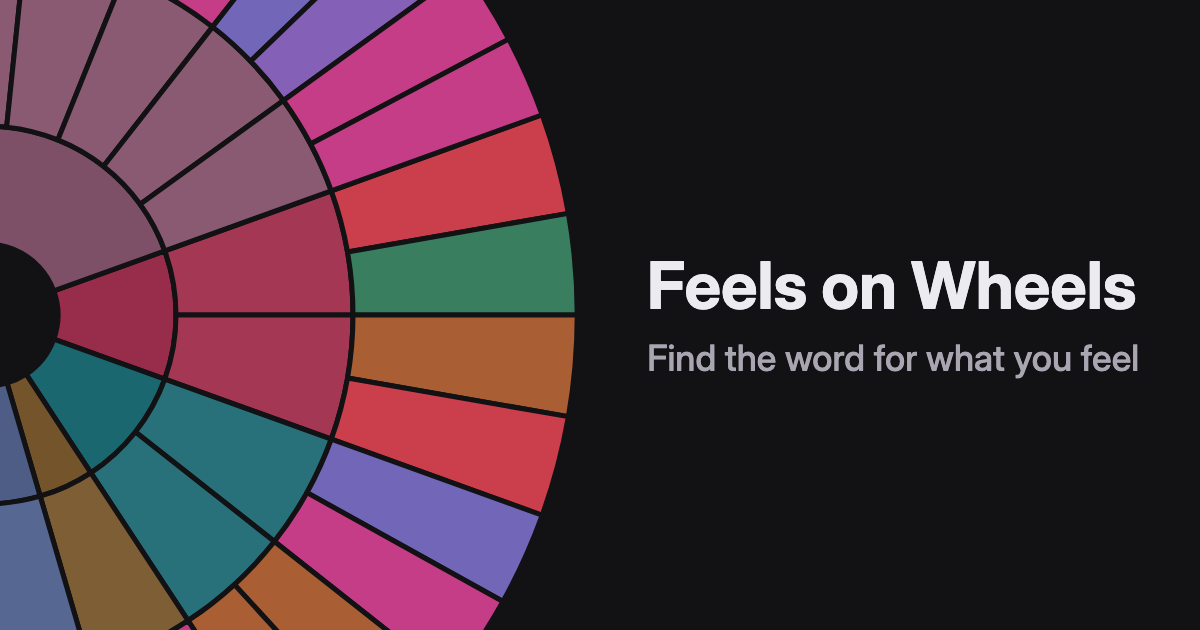
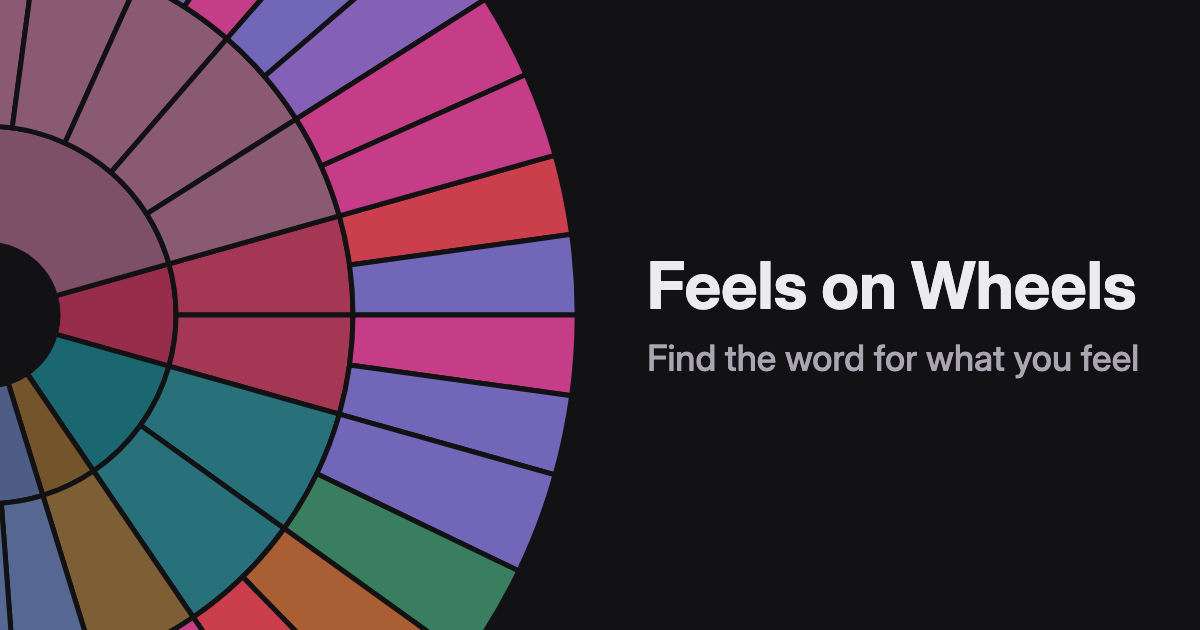
Body wheel review: Gagging goes, Clenched teeth, Nothing much, Revolted under Back away, Helpless under Give up

diff --git a/tests/unit/data.test.ts b/tests/unit/data.test.ts
@@ -120,27 +120,27 @@ describe('validation', () => {
 });
 
 const AREAS: [string, string[]][] = [
-  ['head', ['headache', 'foggy-head', 'lightheaded', 'hot-face', 'tight-jaw']],
-  ['throat', ['lump-in-throat', 'heart-in-throat', 'tight-throat', 'dry-mouth', 'gagging']],
+  ['head', ['headache', 'foggy-head', 'lightheaded', 'hot-face']],
+  ['throat', ['lump-in-throat', 'heart-in-throat', 'tight-throat', 'dry-mouth', 'clenched-teeth']],
   ['shoulders', ['tense-shoulders', 'weight-on-shoulders']],
   ['hands', ['tight-fists', 'shaky-hands', 'sweaty-palms', 'cold-hands']],
   ['chest', ['racing-heart', 'tight-chest', 'short-breath', 'hollow-chest', 'heavy-heart']],
   ['stomach', ['knot-in-stomach', 'sinking-feeling', 'butterflies', 'queasy']],
-  ['whole-body', ['restless', 'buzzing', 'chills', 'frozen', 'skin-crawling', 'heaviness', 'drained', 'numb-empty', 'flat', 'weak-knees']],
+  ['whole-body', ['restless', 'buzzing', 'chills', 'frozen', 'skin-crawling', 'heaviness', 'drained', 'numb-empty', 'nothing-much', 'weak-knees']],
   ['urges', ['run', 'hide', 'lash-out', 'back-away', 'fix-things', 'be-close', 'be-alone', 'give-up', 'numb-out', 'sleep', 'cry', 'control-things']],
 ];
 
 describe('body wheel data', () => {
-  test('body wheel has 8 areas and 47 sensations, in spec §3 order (less the changes file)', () => {
+  test('body wheel has 8 areas and 46 sensations, in spec §3 order (less the changes file)', () => {
     expect(body.children.map((n) => nodeRef(n))).toEqual(AREAS.map(([id]) => ({ kind: 'area', id })));
     body.children.forEach((a, i) => {
       expect((a.children ?? []).map((n) => nodeRef(n)), AREAS[i]![0]).toEqual(AREAS[i]![1].map((id) => ({ kind: 'sensation', id })));
     });
-    expect(body.children.flatMap((a) => a.children ?? []).length).toBe(47);
+    expect(body.children.flatMap((a) => a.children ?? []).length).toBe(46);
   });
 
-  test('body wheel has 127 feeling cells', () => {
-    expect(body.children.flatMap((a) => a.children ?? []).reduce((n, s) => n + (s.children ?? []).length, 0)).toBe(127);
+  test('body wheel has 126 feeling cells', () => {
+    expect(body.children.flatMap((a) => a.children ?? []).reduce((n, s) => n + (s.children ?? []).length, 0)).toBe(126);
   });
 
   test('area labels', () => {

diff --git a/tests/unit/card.test.ts b/tests/unit/card.test.ts
@@ -716,7 +716,7 @@ describe('the core feeling on the body wheel (spec v2.2 §4.4)', () => {
   };
 
   test('a body wheel feeling names its core feeling after the definition', () => {
-    expect(textSection(cardModel(body, feelings, bOpened('whole-body/flat/content'), jump))).toEqual({
+    expect(textSection(cardModel(body, feelings, bOpened('whole-body/nothing-much/content'), jump))).toEqual({
       kind: 'text', text: locale.feelings['content']!.definition,
       core: { before: 'A ', label: 'happy', after: ' feeling.', hue: 'happy', wheel: 'core', path: 'happy' },
     });
@@ -730,7 +730,7 @@ describe('the core feeling on the body wheel (spec v2.2 §4.4)', () => {
   // No core feeling is on the body wheel any more (rework spec §3), so there's no body wheel case for one.
   test('no core sentence on a feeling with no home, or the feelings wheel', () => {
     const homeless = { wheel: 'core', home: new Map() };
-    expect(textSection(cardModel(body, feelings, bOpened('whole-body/flat/content'), homeless)).core).toBeUndefined();
+    expect(textSection(cardModel(body, feelings, bOpened('whole-body/nothing-much/content'), homeless)).core).toBeUndefined();
     expect(textSection(cardModel(layout, feelings, opened('happy/interested'))).core).toBeUndefined();
   });
 
@@ -741,7 +741,7 @@ describe('the core feeling on the body wheel (spec v2.2 §4.4)', () => {
     el.hrefFor = (w, p) => `/${w}/${p}`;
     const got: unknown[] = [];
     document.body.addEventListener('fw-wheel', (e) => got.push((e as CustomEvent).detail));
-    el.model = cardModel(body, feelings, bOpened('whole-body/flat/content'), jump);
+    el.model = cardModel(body, feelings, bOpened('whole-body/nothing-much/content'), jump);
     const p = el.querySelector('.fw-definition')!;
     expect(p.textContent).toBe(`${locale.feelings['content']!.definition} A happy feeling.`);
     const link = p.querySelector<HTMLAnchorElement>('a.fw-link')!;

diff --git a/tests/e2e/body.spec.ts b/tests/e2e/body.spec.ts
@@ -406,7 +406,7 @@ test.describe('v2.2: the core feeling in the definition', () => {
   const coreLink = (page: Page) => page.locator('fw-card .fw-definition .fw-link');
 
   test('the core feeling link opens Happy on the feelings wheel; Enter works too', async ({ page }) => {
-    await open(page, '/body/whole-body/flat/content');
+    await open(page, '/body/whole-body/nothing-much/content');
     await expect(page.locator('fw-card .fw-definition')).toContainText('A happy feeling.');
     await coreLink(page).click();
     await idle(page);
@@ -426,7 +426,7 @@ test.describe('v2.2: the core feeling in the definition', () => {
   });
 
   test('axe: a body wheel definition with its core feeling link', async ({ page }) => {
-    await open(page, '/body/whole-body/flat/content');
+    await open(page, '/body/whole-body/nothing-much/content');
     await settled(page);
     expect((await new AxeBuilder({ page }).analyze()).violations).toEqual([]);
   });

diff --git a/tests/unit/content.test.ts b/tests/unit/content.test.ts
@@ -58,9 +58,10 @@ describe('body wheel content', () => {
     expect(feelingsUnder('cry')).toEqual(['frustrated', 'overwhelmed', 'thankful']);
   });
 
-  test('flat could be content, peaceful, or numb', () => {
-    expect(feelingsUnder('flat')).toEqual(['content', 'peaceful', 'numb']);
-    expect(locale.sensations['flat']).toBe('Flat');
+  test('nothing much could be content, peaceful, or apathetic', () => {
+    expect(feelingsUnder('nothing-much')).toEqual(['content', 'peaceful', 'apathetic']);
+    expect(locale.sensations['nothing-much']).toBe('Nothing much');
+    expect(locale.sensationPhrases['nothing-much']).toBe('Not feeling much');
   });
 
   test('the happy-only sensations stay for You might notice, off the body wheel', () => {

diff --git a/tests/unit/camera.test.ts b/tests/unit/camera.test.ts
@@ -25,7 +25,7 @@ describe('v2.2.1: the left safe-area inset', () => {
   const wheels = loadData().wheels.map((w, i) => (i === 0 ? layout : buildLayout(w)));
 
   /**
-   * Known issue (roadmap: "The two wheels can rest, and zoom, differently"): with the body wheel rework's 127 outer
+   * Known issue (roadmap: "The two wheels can rest, and zoom, differently"): with the body wheel rework's 126 outer
    * cells, the body wheel's outer ring zooms in too far to clear the notch and stay left of the card. When that's
    * fixed, this expectation fails; remove the entry.
    */

diff --git a/tests/unit/a11y.test.ts b/tests/unit/a11y.test.ts
@@ -261,9 +261,9 @@ describe('body wheel (v2)', () => {
     expect(describeSeg(bodyLayout, bodyLayout.byPath.get('urges/run/scared')!)).toBe('Scared. In Urges, Run.');
   });
 
-  test('the body tree has 182 treeitems', () => {
+  test('the body tree has 180 treeitems', () => {
     createA11yTree(root, bodyLayout, dispatch, startWord);
-    expect(items()).toHaveLength(182);
+    expect(items()).toHaveLength(180);
   });
 
   test('the tree is named after its wheel', () => {

diff --git a/docs/content-review.md b/docs/content-review.md
@@ -35,7 +35,7 @@ One entry per word. A word in two places on the wheel is listed once, where it f
     - **Excluded**: Feeling left out, as if you are on the outside of a group.  
       _A hollow feeling in your chest · A lump in your throat · Wanting to be close_
     - **Persecuted**: Feeling that you are being targeted or treated badly on purpose.  
-      _A racing heart · Tense shoulders · A tight jaw · Wanting to run_
+      _A racing heart · Tense shoulders · Clenched teeth · Wanting to run_
   - **Threatened**: Sensing that someone or something might harm you or what you care about.  
     _Wanting to run · A racing heart · Tense shoulders · Your heart in your throat_
     - **Nervous**: Jittery and on edge about something coming up.  
@@ -46,27 +46,27 @@ One entry per word. A word in two places on the wheel is listed once, where it f
 ## Angry
 
 - **Angry**: A strong feeling that something is wrong or unfair, with an urge to push back.  
-  _A hot face · A tight jaw · Tight fists · A racing heart_
+  _A hot face · Clenched teeth · Tight fists · A racing heart_
   - **Let Down**: Disappointed because someone didn't do what you hoped or expected.  
     _A sinking feeling · A heavy heart · A hollow feeling in your chest_
     - **Betrayed**: Hurt and angry because someone you trusted broke that trust.  
       _A knot in your stomach · Wanting to lash out · A hollow feeling in your chest · A lump in your throat_
     - **Resentful**: Holding on to anger about being treated unfairly in the past.  
-      _A tight jaw · A tight chest · Wanting to lash out · Tense shoulders_
+      _Clenched teeth · A tight chest · Wanting to lash out · Tense shoulders_
   - **Humiliated**: Deeply embarrassed and made to feel small, often in front of others.  
     _A hot face · Wanting to hide · A sinking feeling_
     - **Disrespected**: Feeling that someone treated you as if you didn't matter.  
-      _A hot face · A tight jaw · A tight chest_
+      _A hot face · Clenched teeth · A tight chest_
     - **Ridiculed**: Feeling mocked or laughed at.  
       _A hot face · Wanting to hide_
   - **Bitter**: Lasting anger and hurt about something that felt unfair.  
-    _Wanting to lash out · A tight jaw · A tight chest · A knot in your stomach_
+    _Wanting to lash out · Clenched teeth · A tight chest · A knot in your stomach_
     - **Indignant**: Angry about something you see as unjust or insulting.  
-      _A hot face · Tense shoulders · A tight jaw_
+      _A hot face · Tense shoulders · Clenched teeth_
     - **Violated**: Feeling that a boundary was crossed or something of yours was taken without permission.  
       _Your skin crawling · A knot in your stomach · Feeling queasy · Feeling frozen_
   - **Mad**: Plainly angry and fired up.  
-    _A tight jaw · Tight fists · A racing heart · A hot face_
+    _Clenched teeth · Tight fists · A racing heart · A hot face_
     - **Furious**: Extremely angry, close to losing control.  
       _Shaky hands · Wanting to lash out · A hot face · Tight fists_
     - **Jealous**: Afraid of losing someone or something to another person, or wanting what they have.  
@@ -74,36 +74,36 @@ One entry per word. A word in two places on the wheel is listed once, where it f
   - **Aggressive**: Ready to attack or confront, in words or actions.  
     _Tight fists · Tense shoulders · Wanting to lash out_
     - **Provoked**: Stirred up to anger by something someone said or did.  
-      _Wanting to lash out · A hot face · A tight jaw · A racing heart_
+      _Wanting to lash out · A hot face · Clenched teeth · A racing heart_
     - **Hostile**: Unfriendly and ready to fight or oppose.  
-      _Wanting to lash out · A tight jaw · Tense shoulders · Tight fists_
+      _Wanting to lash out · Clenched teeth · Tense shoulders · Tight fists_
   - **Frustrated**: Upset because something keeps getting in your way.  
     _A headache · Tense shoulders · Tight fists · Wanting to cry_
     - **Infuriated**: Made extremely angry, usually by something that keeps happening.  
       _A hot face · Tight fists · A racing heart_
     - **Annoyed**: Mildly irritated by something that bothers you.  
-      _Tense shoulders · Feeling restless · A tight jaw_
+      _Tense shoulders · Feeling restless · Clenched teeth_
   - **Distant**: Pulled back from others, keeping feelings at arm's length.  
     _Feeling numb or empty · Feeling drained · Wanting to be alone_
     - **Withdrawn**: Pulling into yourself and avoiding contact with others.  
       _Wanting to be alone · Wanting to hide · Feeling drained_
     - **Numb**: Feeling very little, as if your emotions have been switched off.  
-      _Feeling flat · Feeling numb or empty · Heaviness · A foggy head_
+      _Not feeling much · Feeling numb or empty · Heaviness · A foggy head_
   - **Critical**: Quick to notice faults and judge them.  
-    _A tight jaw · Tense shoulders_
+    _Clenched teeth · Tense shoulders_
     - **Skeptical**: Doubting whether something is true or can be trusted.  
       _Tense shoulders · Wanting to back away_
     - **Dismissive**: Brushing something off as not worth your attention.  
-      _Wanting to back away · Feeling flat_
+      _Wanting to back away · Not feeling much_
 
 ## Disgusted
 
 - **Disgusted**: Strong dislike of something that feels gross, wrong, or offensive.  
-  _Feeling queasy · Gagging · Wanting to back away_
+  _Feeling queasy · Wanting to back away_
   - **Disapproving**: Feeling that something is wrong or not okay.  
-    _A tight jaw · Wanting to back away · Tense shoulders_
+    _Clenched teeth · Wanting to back away · Tense shoulders_
     - **Judgmental**: Forming harsh opinions about someone or something.  
-      _A tight jaw · Tense shoulders · Wanting to back away_
+      _Clenched teeth · Tense shoulders · Wanting to back away_
     - **Embarrassed**: Self-conscious and uncomfortable after something awkward or revealing.  
       _A hot face · Wanting to hide_
   - **Disappointed**: Sad that something didn't turn out the way you hoped.  
@@ -111,15 +111,15 @@ One entry per word. A word in two places on the wheel is listed once, where it f
     - **Appalled**: Shocked and disgusted by something you think is very wrong.  
       _Feeling queasy · Wanting to back away · Feeling frozen_
     - **Revolted**: Strongly repelled, with an urge to get away.  
-      _Gagging · Feeling queasy · Wanting to back away_
+      _Feeling queasy · Wanting to back away_
   - **Awful**: Feeling very bad, sick, or unpleasant inside.  
     _Feeling queasy · A knot in your stomach · Heaviness_
     - **Nauseated**: Sick to your stomach, as if you might throw up.  
-      _Feeling queasy · Gagging · Cold hands_
+      _Feeling queasy · Cold hands_
     - **Detestable**: Feeling that something, or you yourself, is hateful or deeply unpleasant.  
       _Feeling queasy · Wanting to back away · A knot in your stomach_
   - **Repelled**: Pushed away by something you find unpleasant.  
-    _Feeling queasy · Your skin crawling · Gagging · Wanting to back away_
+    _Feeling queasy · Your skin crawling · Wanting to back away_
     - **Horrified**: Filled with shock and fear at something terrible.  
       _Your skin crawling · Wanting to back away · Your heart in your throat · Feeling frozen_
     - **Hesitant**: Holding back because you are unsure or uneasy.  
@@ -180,7 +180,7 @@ One entry per word. A word in two places on the wheel is listed once, where it f
     - **Sensitive**: Easily moved, and keenly aware of your own feelings and other people's.  
       _Warmth or fullness in your chest · Wanting to cry · A hot face_
   - **Peaceful**: Calm and settled, without inner conflict.  
-    _Feeling flat · Feeling relaxed · Feeling light_
+    _Not feeling much · Feeling relaxed · Feeling light_
     - **Thankful**: Glad and appreciative for something you received.  
       _Warmth or fullness in your chest · Wanting to cry · Feeling relaxed_
     - **Loving**: Feeling deep care and affection for someone.  
@@ -210,7 +210,7 @@ One entry per word. A word in two places on the wheel is listed once, where it f
     - **Curious**: Drawn to explore something new or unknown.  
       _A buzzing feeling · Feeling restless_
   - **Content**: Satisfied with how things are right now.  
-    _Feeling flat · Feeling relaxed · Feeling light_
+    _Not feeling much · Feeling relaxed · Feeling light_
     - **Joyful**: Full of great happiness and delight.  
       _Feeling light · A buzzing feeling · Warmth or fullness in your chest_
     - **Free**: Unburdened and able to be yourself.  
@@ -262,7 +262,7 @@ One entry per word. A word in two places on the wheel is listed once, where it f
     - **Sleepy**: Ready for sleep, with heavy eyes and a slow body.  
       _Feeling drained · Heaviness · Wanting to sleep_
   - **Stressed**: Under pressure and stretched thin.  
-    _A headache · A tight jaw · Tense shoulders · Short, shallow breaths_
+    _A headache · Clenched teeth · Tense shoulders · Short, shallow breaths_
     - **Out of Control**: Feeling that things are happening faster than you can manage.  
       _Wanting to control things · A racing heart · Short, shallow breaths · Feeling restless_
     - **Overwhelmed**: see above
@@ -275,9 +275,9 @@ One entry per word. A word in two places on the wheel is listed once, where it f
   - **Bored**: Uninterested and wanting something to happen.  
     _Feeling restless · Feeling drained · Wanting to sleep_
     - **Apathetic**: Not caring or feeling much about anything.  
-      _Feeling drained · Feeling numb or empty · Feeling flat_
+      _Feeling drained · Feeling numb or empty · Not feeling much_
     - **Indifferent**: Neither for nor against something, without strong feelings either way.  
-      _Feeling numb or empty · Feeling flat · Feeling drained_
+      _Feeling numb or empty · Not feeling much · Feeling drained_
 
 
 ## Body wheel
@@ -290,7 +290,6 @@ The body sensations wheel after the [body wheel rework](superpowers/specs/2026-1
 - **Foggy head**: Confused, Tired, Depressed
 - **Lightheaded**: Shocked, Overwhelmed, Nervous
 - **Hot face**: Embarrassed, Ashamed, Humiliated
-- **Tight jaw**: Mad, Resentful, Stressed
 
 ### Throat / mouth
 
@@ -298,7 +297,7 @@ The body sensations wheel after the [body wheel rework](superpowers/specs/2026-1
 - **Heart in throat**: Scared, Nervous, Startled
 - **Tight throat**: Anxious, Frightened, Repelled
 - **Dry mouth**: Nervous, Scared
-- **Gagging**: Revolted, Repelled
+- **Clenched teeth**: Mad, Resentful, Stressed
 
 ### Shoulders
 
@@ -337,7 +336,7 @@ The body sensations wheel after the [body wheel rework](superpowers/specs/2026-1
 - **Heaviness**: Depressed, Weak, Helpless
 - **Drained**: Tired, Apathetic
 - **Numb / empty**: Numb, Empty, Shocked
-- **Flat**: Content, Peaceful, Numb
+- **Nothing much**: Content, Peaceful, Apathetic
 - **Weak knees**: Scared, Weak, Aroused
 
 ### Urges (on the wheel: "The urge to…")
@@ -345,11 +344,11 @@ The body sensations wheel after the [body wheel rework](superpowers/specs/2026-1
 - **Run**: Scared, Threatened, Overwhelmed
 - **Hide**: Ashamed, Exposed, Vulnerable
 - **Lash out**: Furious, Provoked, Hurt
-- **Back away**: Repelled, Disapproving
+- **Back away**: Revolted, Disapproving
 - **Fix things**: Guilty, Worried, Loving
 - **Be close**: Loving, Lonely, Insecure
 - **Be alone**: Withdrawn, Fragile, Overwhelmed
-- **Give up**: Despair, Inadequate
+- **Give up**: Despair, Inadequate, Helpless
 - **Numb out**: Overwhelmed, Ashamed, Lonely
 - **Sleep**: Tired, Bored, Depressed
 - **Cry**: Frustrated, Overwhelmed, Thankful

diff --git a/docs/ROADMAP.md b/docs/ROADMAP.md
@@ -100,7 +100,7 @@ What the wheels say: their words, definitions, and how feelings relate to sensat
 
 - Lucas, 2026-11-15: the feelings wheel should be opinionated about the words it uses, their definitions, and how feelings relate to sensations. Today it largely repeats other wheels (mostly [Roberts's seven-core wheel](reference/core-feelings-wheel.md)), which isn't necessary.
 - Its rules go in `src/data/README.md` next to the body wheel's, so every later edit follows them.
-- **A word for accepting your situation.** Lucas, 2026-11-16: not fighting reality, going with the flow. The wheel's Accepted means being welcomed by others, so the body wheel's Flat uses Content and Peaceful for now (rework [changes](superpowers/specs/2026-11-15-feels-on-wheels-body-wheel-rework-changes.md#flat); [radical acceptance](reference/linehan-dbt-model-of-emotions.md), [equanimity](reference/desbordes-equanimity.md)).
+- **A word for accepting your situation.** Lucas, 2026-11-16: not fighting reality, going with the flow. The wheel's Accepted means being welcomed by others, so the body wheel's Nothing much uses Content and Peaceful for now (rework [changes](superpowers/specs/2026-11-15-feels-on-wheels-body-wheel-rework-changes.md#flat); [radical acceptance](reference/linehan-dbt-model-of-emotions.md), [equanimity](reference/desbordes-equanimity.md)).
 - **Words that sit oddly under their parent,** such as Hesitant under Repelled, Embarrassed under Disapproving, and Inferior under Depressed (Lucas, 2026-11-16). The body wheel's rule about a word and its parent depends on this nesting.
 - To decide when designing:
   - what makes a word earn a place: common, plain, distinct from its neighbors, and useful for naming what you feel;
@@ -156,8 +156,8 @@ These may share a cause: the browser's own zoom or text inflation, which the app
 ### Layout and labels
 
 - **The two wheels can rest, and zoom, differently in the same window.** Found by Lucas 2026-11-15: in a window taller than it is wide, roughly 720 to 920 px wide, the feelings wheel rests whole and the body wheel on the half-wheel. Lucas wants the view to be the same on both wheels.
-  - **Opening a word does the same** (Lucas, 2026-11-16, on an iPhone 15 sideways): at each level, the body wheel zooms in further than the feelings wheel. `ringFocusCamera` (`src/camera.ts`) zooms until a typical cell in the opened ring is readable, also per wheel, and the body wheel's cells are thinner. With the [body wheel rework](superpowers/specs/2026-11-15-feels-on-wheels-body-wheel-rework-changes.md)'s 127 outer cells, on a sideways iPhone with its 59 px insets the opened ring can no longer clear the notch and stay left of the card, so it runs under the card. The unit test "the opened cell starts 1rem after the inset and ends before the aim width" (`tests/unit/camera.test.ts`) pins the body wheel's outer ring as a known overflow (`OVERFLOWS`), and fails once the overflow is fixed so the pin can be removed. The ring fits at 114 outer cells or fewer.
-  - Why: on an upright stage, `restView` (`src/camera.ts`) rests on the whole wheel only if a typical outer cell's label would be at least 12 px tall (`shouldStartZoomed`: the median outer cell's arc × 0.55 ≥ 12 px), and it decides per wheel. The feelings wheel has 82 outer cells and the body wheel 127 (105 before the [body wheel rework](superpowers/specs/2026-11-15-feels-on-wheels-body-wheel-rework-changes.md)), so the body wheel's cells are narrower. The whole wheel needs a radius of about 352 px on the feelings wheel and about 545 px on the body wheel (450 px before the rework), and windows in between split.
+  - **Opening a word does the same** (Lucas, 2026-11-16, on an iPhone 15 sideways): at each level, the body wheel zooms in further than the feelings wheel. `ringFocusCamera` (`src/camera.ts`) zooms until a typical cell in the opened ring is readable, also per wheel, and the body wheel's cells are thinner. With the [body wheel rework](superpowers/specs/2026-11-15-feels-on-wheels-body-wheel-rework-changes.md)'s 126 outer cells, on a sideways iPhone with its 59 px insets the opened ring can no longer clear the notch and stay left of the card, so it runs under the card. The unit test "the opened cell starts 1rem after the inset and ends before the aim width" (`tests/unit/camera.test.ts`) pins the body wheel's outer ring as a known overflow (`OVERFLOWS`), and fails once the overflow is fixed so the pin can be removed. The ring fits at 114 outer cells or fewer.
+  - Why: on an upright stage, `restView` (`src/camera.ts`) rests on the whole wheel only if a typical outer cell's label would be at least 12 px tall (`shouldStartZoomed`: the median outer cell's arc × 0.55 ≥ 12 px), and it decides per wheel. The feelings wheel has 82 outer cells and the body wheel 126 (105 before the [body wheel rework](superpowers/specs/2026-11-15-feels-on-wheels-body-wheel-rework-changes.md)), so the body wheel's cells are narrower. The whole wheel needs a radius of about 352 px on the feelings wheel and about 545 px on the body wheel (450 px before the rework), and windows in between split.
   - To decide when designing: one rule for both wheels, at rest and when a word is opened, such as deciding with the wheel that has the most outer cells (so the feelings wheel would also rest on the half-wheel in those windows, and zoom as far), whether the opened ring's zoom should give way to the card in tight layouts, and what the viewport sweep (`tests/e2e/viewports.spec.ts`) should pin. The [emoji wheel](#emoji-wheel) and [wheels for kids](#wheels-for-kids) would join the same rule. No fix chosen yet.
 - **Wide fallback fonts don't fit the tightest layouts.** Found 2026-11-09 when the end-to-end tests first ran on GitHub's Ubuntu runners, whose `system-ui` font is DejaVu Sans, much wider than the system fonts on Apple, Android and Windows devices. With it:
   - the wheel switch and toolbar overlap on 280 px screens;

diff --git a/README.md b/README.md
@@ -25,7 +25,7 @@ The body sensations wheel starts from what you notice in your body and leads to 
 
 - **Places you could point to, plus Urges.** The areas run head to toe in a body scan's order (Head / face, Throat / mouth, Shoulders, Hands, Chest, Stomach), then Whole body for what you feel all over. The last area, Urges, holds what you feel pulled to do: run, hide, lash out, numb out. Many people notice the pull before they can name the feeling.
 - **A sensation is something you'd notice with your eyes closed and nobody watching.** What others see, like a smile or raised eyebrows, isn't on the wheel.
-- **One sensation, several feelings.** The same body signal can mean different things: a racing heart can be scared or excited, and feeling flat can be numb or content. The wheel offers both readings where they're real, and offers happy feelings only as the other reading of a sensation, since few people need help knowing they're happy.
+- **One sensation, several feelings.** The same body signal can mean different things: a racing heart can be scared or excited, and not feeling much can be content or apathetic. The wheel offers both readings where they're real, and offers happy feelings only as the other reading of a sensation, since few people need help knowing they're happy.
 
 ### What the research found
 
@@ -35,7 +35,7 @@ The body sensations wheel starts from what you notice in your body and leads to 
 - **Urges are part of an emotion,** separate from its sensations: fear pulls you to escape, anger to fight, disgust to reject, guilt to make it right. ([Frijda](docs/reference/frijda-action-tendencies.md), [DBT](docs/reference/linehan-dbt-model-of-emotions.md))
 - **Many urges are a way to stop feeling something,** like numbing out, and noticing the pull without acting on it is a skill taught in recovery. ([Hayes and others](docs/reference/hayes-experiential-avoidance.md), [Marlatt](docs/reference/marlatt-urge-surfing.md))
 - **Particular paths:**
-  - disgust is felt as nausea and gagging ([Rozin](docs/reference/rozin-disgust.md));
+  - disgust is felt as nausea ([Rozin](docs/reference/rozin-disgust.md));
   - giving up follows what you can't control ([Maier and Seligman](docs/reference/maier-seligman-learned-helplessness.md));
   - people cry from frustration and being moved, not just sadness ([Vingerhoets](docs/reference/vingerhoets-crying.md));
   - rejection registers like pain ([Eisenberger and others](docs/reference/eisenberger-social-pain.md));
@@ -48,7 +48,7 @@ The body sensations wheel starts from what you notice in your body and leads to 
 ### What isn't research
 
 - **Common speech:** some words rest mainly on common speech for something people feel, such as Butterflies, Buzzing, Sinking feeling, Heavy heart, and Skin crawling.
-- **Lucas's own experience:** a few also rest on Lucas's experience: Heart in throat, Weight on shoulders, Numb / empty, and Flat.
+- **Lucas's own experience:** a few also rest on Lucas's experience: Heart in throat, Weight on shoulders, Numb / empty, and Nothing much.
 
 What backs each word is in the [design spec](docs/superpowers/specs/2026-11-15-feels-on-wheels-body-wheel-rework-design.md#3-the-wheel) and its [changes](docs/superpowers/specs/2026-11-15-feels-on-wheels-body-wheel-rework-changes.md).
 

diff --git a/docs/superpowers/specs/2026-11-15-feels-on-wheels-body-wheel-rework-changes.md b/docs/superpowers/specs/2026-11-15-feels-on-wheels-body-wheel-rework-changes.md
@@ -117,3 +117,19 @@ The About page's Credits section is now four short paragraphs, with no list:
 
 Lucas chose both links' wording, since "Every source, with links" and "Question a word" didn't say where they went or what you'd do there. The first visit's download goes back down to about 39 KB gzipped.
 
+
+## After review: four words checked against the research
+
+Lucas, 2026-11-17, from his notes on the pull request and a review of each word against its notes. These replace what the sections above say about the same words.
+
+| Was | Now | Why |
+|---|---|---|
+| Gagging (Throat / mouth): Revolted, Repelled | Gone | Revolted means "strongly repelled", so the two weren't different enough to choose between. Gagging is closer to the act of rejecting something than to a feeling you'd notice ([Rozin](../../reference/rozin-disgust.md)), and someone gagging usually knows why. Queasy and Tight throat already hold disgust. |
+| Tight jaw (Head / face) | **Clenched teeth** (Throat / mouth), id `clenched-teeth` | It's what people catch themselves doing, and it passes the eyes-closed test. Teeth are in the mouth, so it moves to Throat / mouth. Same feelings: Mad, Resentful, Stressed. |
+| Flat: Content, Peaceful, Numb | **Nothing much**: Content, Peaceful, Apathetic, id `nothing-much` | "Flat affect" is what a clinician sees in someone, not what they feel, and "feeling flat" leans toward low, which answers the question the sensation is there to leave open. [Desbordes and others](../../reference/desbordes-equanimity.md) name apathy as what calm acceptance gets mistaken for, and whether you still care as the tell, which is how the wheel defines Apathetic. Numb stays under Numb / empty, so the two sensations next to each other no longer lead to the same word. Its card phrase is "Not feeling much". |
+| Back away: Repelled, Disapproving | Revolted, Disapproving | Revolted keeps a path now that Gagging is gone, and its definition ends "with an urge to get away". Repelled stays under Tight throat, Queasy, and Skin crawling. |
+| Give up: Despair, Inadequate | Despair, Inadequate, Helpless | [Learned helplessness](../../reference/maier-seligman-learned-helplessness.md) is named for it. Powerless was left out as Despair's own child; Helpless, under Scared, isn't nested with either. |
+
+Throat / mouth keeps its name and holds Lump in throat, Heart in throat, Tight throat, Dry mouth, and Clenched teeth; Head / face is down to four. Lucas weighed moving the mouth to Head / face and folding the throat into a "Shoulders / neck" area, and kept the mouth with the throat: people point to the front of the throat for a lump in it, not to the neck.
+
+That leaves 46 sensations on the body wheel and 126 cells. The About page's example "a tight jaw" becomes "clenched teeth".

diff --git a/docs/reference/desbordes-equanimity.md b/docs/reference/desbordes-equanimity.md
@@ -1,6 +1,6 @@
 # Desbordes and others: equanimity isn't indifference
 
-The research behind the body wheel's **Flat**, a change made after the [body wheel rework spec](../superpowers/specs/2026-11-15-feels-on-wheels-body-wheel-rework-design.md) was approved (see its [changes](../superpowers/specs/2026-11-15-feels-on-wheels-body-wheel-rework-changes.md)): calm acceptance and numbness can be hard to tell apart.
+The research behind the body wheel's **Nothing much**, a change made after the [body wheel rework spec](../superpowers/specs/2026-11-15-feels-on-wheels-body-wheel-rework-design.md) was approved (see its [changes](../superpowers/specs/2026-11-15-feels-on-wheels-body-wheel-rework-changes.md)): calm acceptance and numbness can be hard to tell apart.
 
 ## What it is
 
@@ -14,5 +14,5 @@ Published research. We use the idea, not its text.
 
 ## Takeaways for this project
 
-1. **Numb and content can feel alike from the inside,** which is exactly what Flat offers: one sensation, two readings.
-2. **Whether you still care is the tell.** A definition or a card for these words could someday say so; that's for the opinionated feelings wheel.
+1. **Not caring and being content can feel alike from the inside,** which is exactly what Nothing much offers: one sensation, two readings (Content and Peaceful, or Apathetic).
+2. **Whether you still care is the tell,** and it's how the wheel defines Apathetic ("Not caring or feeling much about anything"). A definition or a card for these words could someday say so; that's for the opinionated feelings wheel.

diff --git a/docs/reference/russell-circumplex.md b/docs/reference/russell-circumplex.md
@@ -1,6 +1,6 @@
 # James Russell: the circumplex model of affect
 
-The research behind the body wheel's **Flat**, a change made after the [body wheel rework spec](../superpowers/specs/2026-11-15-feels-on-wheels-body-wheel-rework-design.md) was approved (see its [changes](../superpowers/specs/2026-11-15-feels-on-wheels-body-wheel-rework-changes.md)): a quiet, low-energy feeling can be pleasant or unpleasant.
+The research behind the body wheel's **Nothing much**, a change made after the [body wheel rework spec](../superpowers/specs/2026-11-15-feels-on-wheels-body-wheel-rework-design.md) was approved (see its [changes](../superpowers/specs/2026-11-15-feels-on-wheels-body-wheel-rework-changes.md)): a quiet, low-energy feeling can be pleasant or unpleasant.
 
 ## What it is
 
@@ -14,4 +14,4 @@ Published research. We use the idea, not its text or figure.
 
 ## Takeaways for this project
 
-1. **Low arousal doesn't say how it feels.** A quiet body with not much going on can be contentment or numbness. Valence, not the body, tells them apart, which is why Flat offers Content and Peaceful as well as Numb.
+1. **Low arousal doesn't say how it feels.** A quiet body with not much going on can be contentment or not caring. Valence, not the body, tells them apart, which is why Nothing much offers Content and Peaceful as well as Apathetic.
